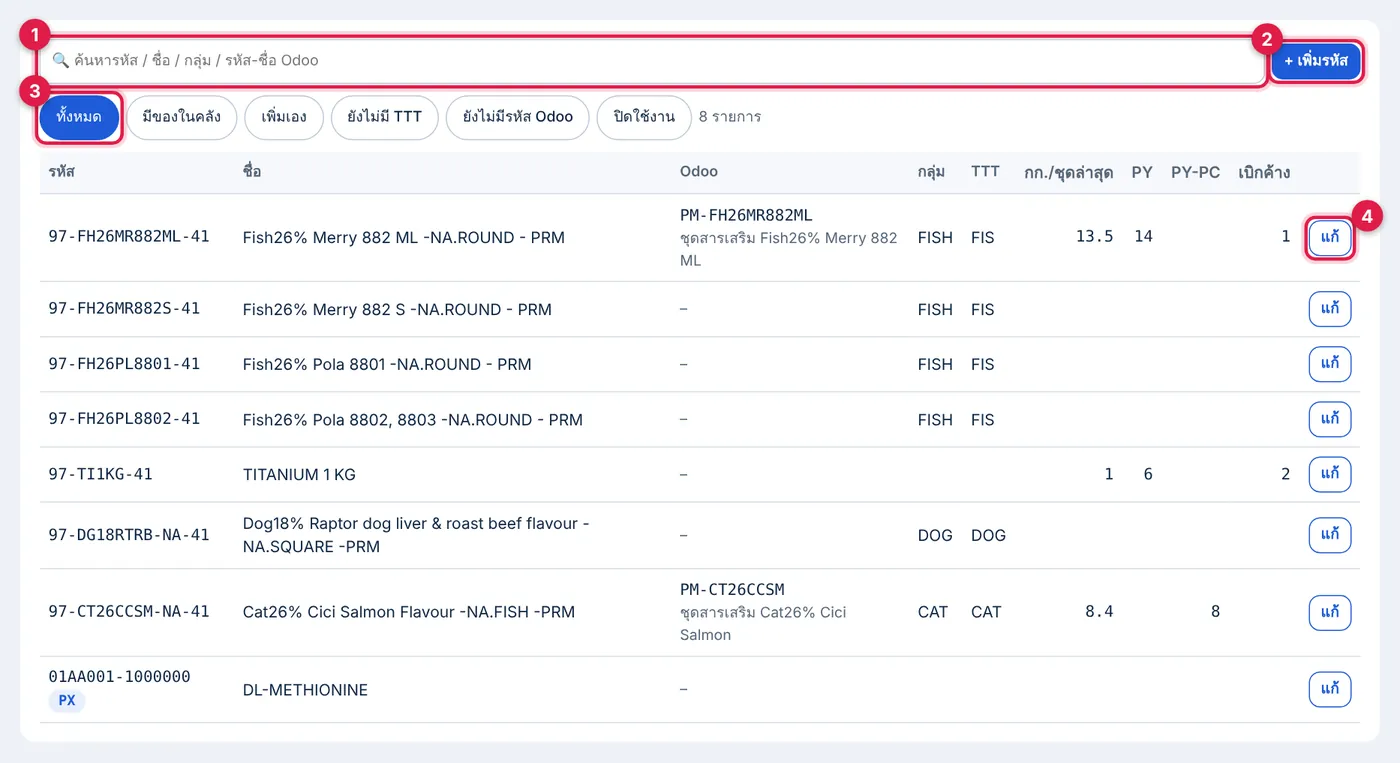
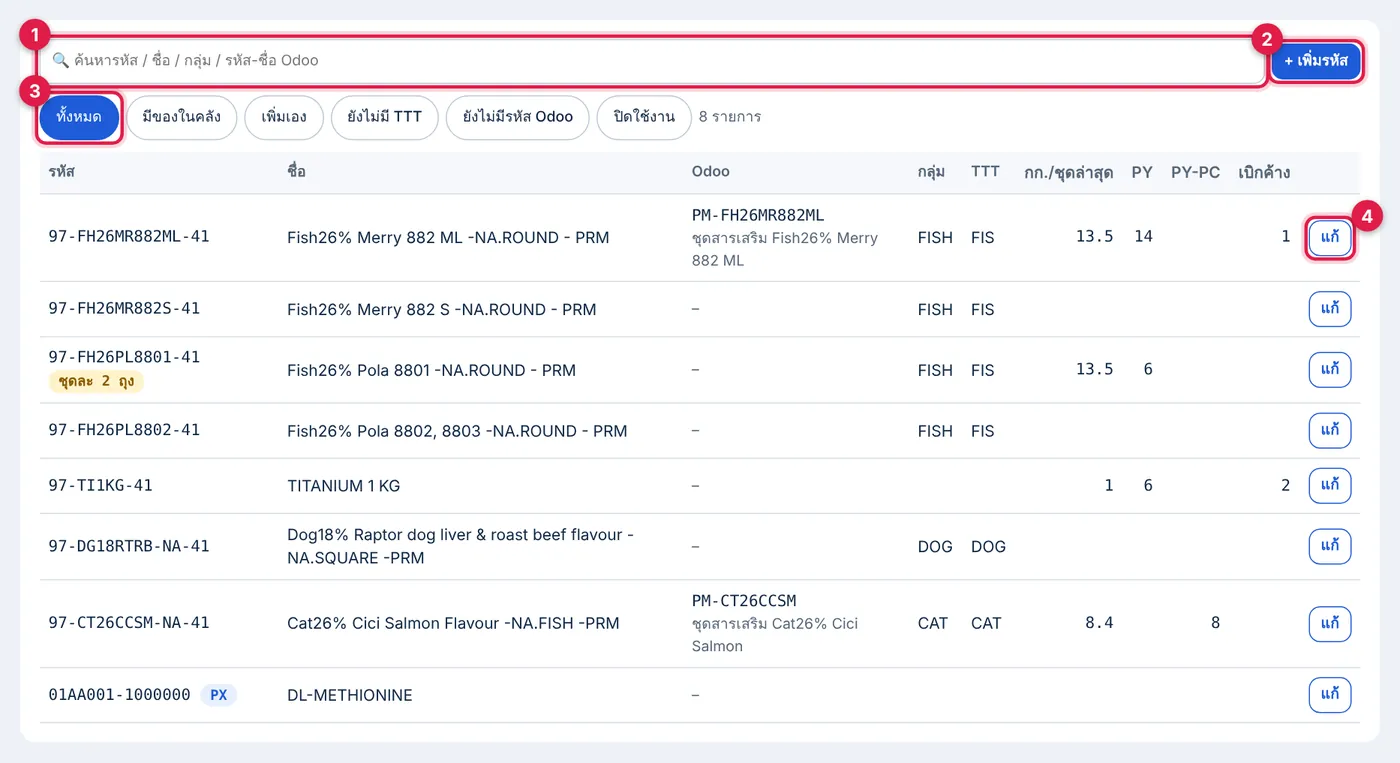
PY: 1 ชุดแยกหลายถุง (Lot เดียว เลข Lot เดิม) · ป้าย -04 ถุงละใบ · เบิก/เทต้องสแกนครบทุกถุง
- Master/รับเข้า: ถุงต่อชุด 1–4 + น้ำหนักแต่ละถุง (กก./ชุด = ผลรวม)
- ป้าย -04 ถุงละใบ: QR BFLPY|Lot|ชุดที่|ถุง · ใต้ QR "ชุดที่ · ถุง 1/2" · น้ำหนักตามถุง · ป้าย -05 บอก "ชุดละ N ถุง"
- ใบสั่งเบิก/หน้าเทยา: แท็ก "ชุดละ N ถุง" + กล่องเตือนชุดที่ถุงยังไม่ครบ (ยังไม่สแกนเบิก / รอเทถุง)
- ข้อความสแกนบอกถุง 1/2 และถุงที่ยังขาด · รายการเบิก/เทแสดงสถานะรายถุง · แก้ Lot แก้น้ำหนักรายถุงได้
- F-WI04 นับเป็นชุด (ไม่นับซ้ำรายถุง) · Excel ยอด PY มีคอลัมน์ถุง/ชุด · คู่มือเพิ่มหัวข้อชุดแยกถุง

Claude-Session: https://claude.ai/code/session_01XaKbuiUMyHGcBpRma49C6D

diff --git a/rawmat-stock/py-manual/index.html b/rawmat-stock/py-manual/index.html
@@ -89,7 +89,7 @@
     <div class="pm-kick">BFL Raw Material System · โมดูล PY</div>
     <h1>คู่มือการใช้งาน PY ชุดสารเสริม</h1>
     <p>ตั้งแต่รับชุดสารเสริมเข้าคลัง PY → ออกใบสั่งเบิก → เบิก / เท / คืน → รับคืน → พิมพ์ฟอร์ม<br>ทุกขั้นตอนมีภาพหน้าจอจริงและข้อมูลตัวอย่าง (ตัวเลขในวงกลมแดงบนภาพ = ลำดับขั้นตอน · แตะภาพเพื่อดูขนาดเต็ม)</p>
-    <div class="pm-meta">ฉบับ 21 พ.ย. 2026 (ปรับปรุง: คลัง PY-PC · เอกสาร BFL-PC · รหัส Odoo) · Phase 1 · ใช้กับ F-WI01-PSS01-04/-05 Rev.01 · F-WI07-PRD04-01 Rev.03 · F-WI04-PSS01-01 Rev.00</div>
+    <div class="pm-meta">ฉบับ 21 พ.ย. 2026 (ปรับปรุง: คลัง PY-PC · เอกสาร BFL-PC · รหัส Odoo · ชุดแยกหลายถุง) · Phase 1 · ใช้กับ F-WI01-PSS01-04/-05 Rev.01 · F-WI07-PRD04-01 Rev.03 · F-WI04-PSS01-01 Rev.00</div>
   </div>
 </header>
 
@@ -122,6 +122,7 @@
     <div><b>ป้าย QR 1 ใบต่อชุด</b><span>ป้าย -04 ติดทุกชุด · ป้าย -05 ติดถุงรวม</span></div>
     <div><b>คืนเป็นชุดเต็ม</b><span>ไม่คืนเศษ · คืนได้เฉพาะชุดที่เบิกแล้วยังไม่เท</span></div>
     <div><b>เทเข้า Mixer โดยตรง</b><span>ไม่ผ่านถัง batching · ถุงมีกี่รหัสต้องเทครบ</span></div>
+    <div><b>1 ชุดแยกหลายถุงได้</b><span>บางสูตรผสมรอไม่ได้ → แยก 2 ถุง (รหัส -41 เดียว Lot เดียว) · ป้ายถุงละใบ · เบิก/เทต้องสแกนครบทุกถุง</span></div>
   </div>
   <h3>คลัง 2 คลัง และเอกสาร 2 แบบ</h3>
   <div class="pm-grid2">
@@ -204,12 +205,13 @@
       <li>กด <b>+ เพิ่มรหัส</b></li>
       <li>① เลือกประเภท <b>ชุดสารเสริม (-41)</b> หรือ <b>พรีมิกซ์ (รหัส PX)</b> สำหรับกรณีถุงที่ 2 เป็นพรีมิกซ์</li>
       <li>② ใส่รหัส ③ ชื่อ · กลุ่ม · ④ TTT (ประเภทอาหาร 3 ตัว)</li>
+      <li><b>ถุงต่อชุด</b> — 1 ถุง (ปกติ) หรือ 2–4 ถุง สำหรับสูตรที่ต้องแยกถุงเท (ค่าเริ่มต้นตอนรับเข้า)</li>
       <li>⑤ <b>รหัส Odoo</b> ⑥ <b>ชื่อ Odoo</b> (ไม่บังคับ · แก้เพิ่มภายหลังได้ด้วยปุ่ม แก้)</li>
       <li>⑦ กด <b>บันทึก</b> → รหัสใช้ได้ทันทีในหน้ารับเข้าและใบสั่งเบิก</li>
     </ol>
     <div class="pm-ex"><b>ข้อมูลตัวอย่าง</b><dl><dt>ประเภท</dt><dd>ชุดสารเสริม (-41)</dd><dt>รหัส</dt><dd class="pm-mono">97-CT30TNMK-41</dd><dt>ชื่อ</dt><dd>Cat30% Tuna Milk -PRM</dd><dt>กลุ่ม / TTT</dt><dd>CAT / CAT</dd><dt>รหัส Odoo</dt><dd class="pm-mono">PM-CT30TNMK</dd><dt>ชื่อ Odoo</dt><dd>ชุดสารเสริม Cat30% Tuna Milk</dd></dl></div>
   </div>
-  <figure class="pm-fig"><a href="img/s11_master_new.webp" target="_blank" rel="noopener"><img src="img/s11_master_new.webp" width="1400" height="443" style="max-width:min(100%,933px)" loading="lazy" alt="ฟอร์มเพิ่มรหัส"></a><figcaption>ฟอร์มเพิ่มรหัส</figcaption></figure>
+  <figure class="pm-fig"><a href="img/s11_master_new.webp" target="_blank" rel="noopener"><img src="img/s11_master_new.webp" width="1400" height="500" style="max-width:min(100%,933px)" loading="lazy" alt="ฟอร์มเพิ่มรหัส"></a><figcaption>ฟอร์มเพิ่มรหัส</figcaption></figure>
   <div class="pm-tip">รหัส Odoo แสดงในหน้า ยอด PY, รายการเลือกรหัส (พิมพ์รหัส Odoo ค้นหาได้), ไฟล์ Excel / PDF ยอดคงคลัง และใบจ่ายออก PY-PC</div>
   <div class="pm-note">ไม่ลบรหัส — ถ้าเลิกใช้ให้กด แก้ → เอาเครื่องหมาย ✓ ใช้งาน ออก (รหัสจะไม่ขึ้นในรายการเลือก)</div>
 </section>
@@ -232,7 +234,7 @@
   </div>
 
   <h3>ขั้นที่ 2 · กรอกข้อมูลแล้วกดรับเข้า</h3>
-  <figure class="pm-fig"><a href="img/s21_recv_form.webp" target="_blank" rel="noopener"><img src="img/s21_recv_form.webp" width="1400" height="923" style="max-width:min(100%,933px)" loading="lazy" alt="กรอกครบแล้ว — ปุ่มรับเข้าจะกดได้เมื่อข้อมูลครบและถูกต้อง (ตัวเลขตรงกับรายการด้านล่าง)"></a><figcaption>กรอกครบแล้ว — ปุ่มรับเข้าจะกดได้เมื่อข้อมูลครบและถูกต้อง (ตัวเลขตรงกับรายการด้านล่าง)</figcaption></figure>
+  <figure class="pm-fig"><a href="img/s21_recv_form.webp" target="_blank" rel="noopener"><img src="img/s21_recv_form.webp" width="1400" height="1008" style="max-width:min(100%,933px)" loading="lazy" alt="กรอกครบแล้ว — ปุ่มรับเข้าจะกดได้เมื่อข้อมูลครบและถูกต้อง (ตัวเลขตรงกับรายการด้านล่าง)"></a><figcaption>กรอกครบแล้ว — ปุ่มรับเข้าจะกดได้เมื่อข้อมูลครบและถูกต้อง (ตัวเลขตรงกับรายการด้านล่าง)</figcaption></figure>
   <ol class="pm-ol pm-ol-num">
     <li><b>คลังที่รับเข้า</b> — <b>PY</b> (ใช้ผลิต BFL) หรือ <b>PY-PC</b> (เตรียมส่ง BFL-PC)</li>
     <li><b>เอกสารระบบ</b> — <b>BFL</b> หรือ <b>BFL-PC</b> = ชื่อบริษัทบนหัวป้าย (เลือกคลัง PY-PC แล้วระบบเปลี่ยนเป็น BFL-PC ให้เอง เปลี่ยนกลับได้)</li>
@@ -247,6 +249,19 @@
   </ol>
   <div class="pm-grid2"><figure class="pm-fig"><a href="img/s37_recv_pc.webp" target="_blank" rel="noopener"><img src="img/s37_recv_pc.webp" width="1400" height="293" style="max-width:min(100%,933px)" loading="lazy" alt="เลือกคลัง PY-PC → เอกสารเปลี่ยนเป็น BFL-PC ให้อัตโนมัติ"></a><figcaption>เลือกคลัง PY-PC → เอกสารเปลี่ยนเป็น BFL-PC ให้อัตโนมัติ</figcaption></figure><figure class="pm-fig"><a href="img/s48_label_pc.webp" target="_blank" rel="noopener"><img src="img/s48_label_pc.webp" width="534" height="341" style="max-width:min(100%,356px)" loading="lazy" alt="ป้าย -04 เอกสาร BFL-PC: หัวป้าย &quot;บริษัท บลูฟาโล่ เพ็ทแคร์ จำกัด&quot;"></a><figcaption>ป้าย -04 เอกสาร BFL-PC: หัวป้าย "บริษัท บลูฟาโล่ เพ็ทแคร์ จำกัด"</figcaption></figure></div>
   <figure class="pm-fig"><a href="img/s23_recv_badlot.webp" target="_blank" rel="noopener"><img src="img/s23_recv_badlot.webp" width="810" height="186" style="max-width:min(100%,540px)" loading="lazy" alt="ตัวอย่าง Lot ผิดรูปแบบ — ระบบแจ้งทันทีและไม่ให้บันทึก"></a><figcaption>ตัวอย่าง Lot ผิดรูปแบบ — ระบบแจ้งทันทีและไม่ให้บันทึก</figcaption></figure>
+
+  <h3>กรณี 1 ชุดแยก 2 ถุง (บางตัวผสมรอไม่ได้)</h3>
+  <div class="pm-step2">
+    <div><ol class="pm-ol pm-ol-num">
+      <li><b>จำนวนถุงต่อชุด</b> — เลือก <b>2 ถุง</b> (ระบบเลือกให้ตาม Master)</li>
+      <li><b>น้ำหนักถุง 1</b> เช่น 10.00 กก.</li>
+      <li><b>น้ำหนักถุง 2</b> เช่น 3.50 กก. → น้ำหนักต่อชุด = 13.50 กก. อัตโนมัติ</li>
+    </ol>
+    <div class="pm-ex"><b>ตัวอย่าง</b><dl><dt>รหัส</dt><dd class="pm-mono">97-FH26PL8801-41 (รหัสเดียว)</dd><dt>Lot</dt><dd class="pm-mono">PRE-FIS261121-03-MI (เลขเดียว ไม่แก้เลข)</dd><dt>จำนวน</dt><dd>8 ชุด × 2 ถุง = ป้าย 16 ใบ</dd></dl></div></div>
+    <figure class="pm-fig"><a href="img/s38_recv_2bags.webp" target="_blank" rel="noopener"><img src="img/s38_recv_2bags.webp" width="1400" height="239" style="max-width:min(100%,933px)" loading="lazy" alt="เลือก 2 ถุง แล้วใส่น้ำหนักแต่ละถุง"></a><figcaption>เลือก 2 ถุง แล้วใส่น้ำหนักแต่ละถุง</figcaption></figure>
+  </div>
+  <figure class="pm-fig"><a href="img/s39_label_2bags.webp" target="_blank" rel="noopener"><img src="img/s39_label_2bags.webp" width="1050" height="341" style="max-width:min(100%,700px)" loading="lazy" alt="ป้าย -04 ของชุดที่ 1: ถุง 1/2 (10.00 kg) และ ถุง 2/2 (3.50 kg) — SETCODE และ Lot No. เดียวกัน · QR ไม่ซ้ำกัน"></a><figcaption>ป้าย -04 ของชุดที่ 1: ถุง 1/2 (10.00 kg) และ ถุง 2/2 (3.50 kg) — SETCODE และ Lot No. เดียวกัน · QR ไม่ซ้ำกัน</figcaption></figure>
+  <div class="pm-note">ป้ายยังเป็นฟอร์ม F-WI01-PSS01-04 เดิม · ใต้ QR บอก <b>ชุดที่ · ถุง 1/2</b> · ติดป้ายให้ตรงถุง (ถุง 1 / ถุง 2 ตามน้ำหนัก) · ถ้าใส่ถุงรวม -05 ระบบนับเป็นชุด (ในถุงรวมต้องมีครบทุกถุงของแต่ละชุด)</div>
 
   <h3>ขั้นที่ 3 · พิมพ์ป้าย</h3>
   <figure class="pm-fig"><a href="img/s22_recv_done.webp" target="_blank" rel="noopener"><img src="img/s22_recv_done.webp" width="1400" height="164" style="max-width:min(100%,933px)" loading="lazy" alt="รับเข้าสำเร็จ: ① พิมพ์ป้ายชุด -04 (20 ใบ) ② พิมพ์ป้ายถุง -05 แต่ละถุง"></a><figcaption>รับเข้าสำเร็จ: ① พิมพ์ป้ายชุด -04 (20 ใบ) ② พิมพ์ป้ายถุง -05 แต่ละถุง</figcaption></figure>
@@ -369,6 +384,9 @@
     <li>กด <b>ออกใบสั่งเบิก</b> → ใบขึ้นที่หน้าจอเทยาทันที</li>
   </ol>
 
+  <div class="pm-tip"><b>Control รู้ได้อย่างไรว่าต้องเท 2 ถุง</b> — รหัสที่แยกถุงจะมีป้ายสีเหลือง <span class="pm-tag" style="background:#fff3cd;color:#8a5a00">ชุดละ 2 ถุง</span> ตอนเพิ่มรหัสในใบ และในตารางความคืบหน้า · ใบจะนับว่า "เท" ชุดนั้นเมื่อสแกนเทครบทุกถุงเท่านั้น · ถ้าถุงยังไม่ครบ ใบจะขึ้นกล่องเหลือง "ถุงยังไม่ครบ" บอกว่า Lot ไหน ชุดที่เท่าไร ขาดถุงไหน</div>
+  <figure class="pm-fig"><a href="img/s57_order_wait.webp" target="_blank" rel="noopener"><img src="img/s57_order_wait.webp" width="1400" height="488" style="max-width:min(100%,933px)" loading="lazy" alt="① รหัสที่แยกถุง ② รายการชุดที่ถุงยังไม่ครบ (ยังไม่สแกนเบิก / เทแล้วบางถุง)"></a><figcaption>① รหัสที่แยกถุง ② รายการชุดที่ถุงยังไม่ครบ (ยังไม่สแกนเบิก / เทแล้วบางถุง)</figcaption></figure>
+
   <h3>ติดตามและจัดการใบ</h3>
   <figure class="pm-fig"><a href="img/s51_order_card.webp" target="_blank" rel="noopener"><img src="img/s51_order_card.webp" width="1400" height="315" style="max-width:min(100%,933px)" loading="lazy" alt="การ์ดใบสั่งเบิก: ต้องใช้ / เบิก / เท / ในมือ / ใน PY ต่อรหัส"></a><figcaption>การ์ดใบสั่งเบิก: ต้องใช้ / เบิก / เท / ในมือ / ใน PY ต่อรหัส</figcaption></figure>
   <div class="pm-tw"><table class="pm-t"><thead><tr><th>ปุ่ม</th><th>ใช้เมื่อ</th></tr></thead><tbody>
@@ -443,6 +461,19 @@
     <div class="pm-figs"><figure class="pm-fig pm-fig-phone"><a href="img/s64_return_ok.webp" target="_blank" rel="noopener"><img src="img/s64_return_ok.webp" width="830" height="768" style="max-width:min(100%,415px)" loading="lazy" alt="คืนด้วยป้ายถุง -05 · คืนครบแล้ว ใบจึงหายจากรายการ"></a><figcaption>คืนด้วยป้ายถุง -05 · คืนครบแล้ว ใบจึงหายจากรายการ</figcaption></figure></div>
   </div>
 
+  <h3>ชุดที่แยก 2 ถุง (ป้ายมี "ถุง 1/2", "ถุง 2/2")</h3>
+  <div class="pm-step2 pm-phone">
+    <div>
+      <ol class="pm-ol pm-ol-num">
+        <li><b>เบิก</b> — ถ้าถุงแยกกัน ต้องสแกนป้าย -04 <b>ทั้ง 2 ถุง</b> (สแกนถุงแรกแล้วระบบเตือน "ยังไม่สแกนถุง 2") · ถ้าอยู่ในถุงรวม -05 สแกนป้ายถุงรวมครั้งเดียวได้</li>
+        <li><b>เท</b> — สแกนป้ายของแต่ละถุงตอนเทเข้า Mixer · ถุงแรกระบบให้เลข batch แล้วรอถุงที่เหลือ (กล่องเหลือง) · batch นั้นจะครบเมื่อเทครบทุกถุง</li>
+        <li>สแกนเทถุงที่ยังไม่ได้สแกนเบิก → ระบบไม่ให้เท ให้สลับไปโหมดเบิกก่อน</li>
+        <li><b>คืน</b> — คืนได้เฉพาะชุดที่ยังไม่ได้เทสักถุง และต้องนำคืนให้ครบทุกถุง</li>
+      </ol>
+    </div>
+    <div class="pm-figs"><figure class="pm-fig pm-fig-phone"><a href="img/s67_issue_bag.webp" target="_blank" rel="noopener"><img src="img/s67_issue_bag.webp" width="820" height="444" style="max-width:min(100%,410px)" loading="lazy" alt="เบิกถุง 1/2 — เตือนให้สแกนถุง 2"></a><figcaption>เบิกถุง 1/2 — เตือนให้สแกนถุง 2</figcaption></figure><figure class="pm-fig pm-fig-phone"><a href="img/s66_pour_bag.webp" target="_blank" rel="noopener"><img src="img/s66_pour_bag.webp" width="820" height="990" style="max-width:min(100%,410px)" loading="lazy" alt="① ชุดที่ถุงยังไม่ครบ ② เทถุง 1/2 รอเทถุง 2"></a><figcaption>① ชุดที่ถุงยังไม่ครบ ② เทถุง 1/2 รอเทถุง 2</figcaption></figure></div>
+  </div>
+
   <h3>D. สแกนผิด ต้องทำอย่างไร</h3>
   <p>แจ้ง <b>Control</b> — Control เปิดหน้า เบิก/เท/คืน → หัวข้อ <b>สแกนล่าสุด (เครื่องนี้)</b> หรือ ใบสั่งเบิก → รายการเบิก/เท แล้วกด ยกเลิก พร้อมใส่เหตุผล (เทยายกเลิกเองไม่ได้)</p>
   <figure class="pm-fig"><a href="img/s65_hist_ctl.webp" target="_blank" rel="noopener"><img src="img/s65_hist_ctl.webp" width="1400" height="169" style="max-width:min(100%,933px)" loading="lazy" alt="Control ยกเลิกรายการ: ① เหตุผล ② ยืนยันยกเลิก"></a><figcaption>Control ยกเลิกรายการ: ① เหตุผล ② ยืนยันยกเลิก</figcaption></figure>
@@ -483,6 +514,9 @@
       <tr><td>ชุดนี้อยู่คลัง PY-PC — เบิกเข้าการผลิตไม่ได้</td><td>สแกนเบิกชุดของคลัง PY-PC</td><td>ใช้ชุดคลัง PY · ถ้ารับเข้าผิดคลัง ให้พรีมิกซ์ แก้ คลัง ของ Lot</td></tr>
       <tr><td>… จ่ายออกไป BFL-PC ได้เฉพาะคลัง PY-PC</td><td>สแกนชุด/ถุงคลัง PY ในหน้าจ่ายออก</td><td>ตรวจป้าย หรือ แก้ คลัง ของ Lot (ถ้ายังไม่มีการเบิก)</td></tr>
       <tr><td>ถุงรวมต้องเป็นคลังเดียวกัน / เอกสารเดียวกัน</td><td>จัดถุงรวมจาก Lot ต่างคลังหรือต่างเอกสาร</td><td>แยกถุงตามคลัง/เอกสาร</td></tr>
+      <tr><td>ชุดนี้มี 2 ถุง — สแกนป้ายของแต่ละถุง</td><td>สแกนป้ายเก่าที่ไม่ระบุถุง</td><td>พิมพ์ป้าย -04 ใหม่ (ระบบพิมพ์ถุงละใบ)</td></tr>
+      <tr><td>ถุงที่ 2 ยังไม่ได้สแกนเบิก</td><td>สแกนเทถุงที่ยังไม่ได้สแกนเบิก</td><td>สลับไปโหมดเบิก สแกนถุงนั้น แล้วค่อยสแกนเท</td></tr>
+      <tr><td>ชุดนี้เทไปแล้วบางถุง — คืนไม่ได้</td><td>เทถุงแรกไปแล้ว</td><td>เทถุงที่เหลือให้ครบ หรือให้ Control ยกเลิกการเทก่อน</td></tr>
       <tr><td>อ่านป้ายไม่ได้</td><td>ไม่ใช่ป้าย -04/-05 หรือ QR เสีย</td><td>พิมพ์ป้ายใหม่ที่หน้า ยอด PY</td></tr>
       <tr><td>Lot No. ต้องเป็นรูปแบบ PRE-TTTYYMMDD-NN-MI</td><td>พิมพ์ Lot ผิดรูปแบบ</td><td>เช่น <span class="pm-mono">PRE-FIS261121-01-MI</span></td></tr>
       <tr><td>มี Lot … อยู่แล้ว</td><td>Lot ซ้ำ</td><td>เปลี่ยนเลขลำดับ NN</td></tr>
@@ -495,6 +529,7 @@
   <details class="pm-q"><summary>เบิกด้วยป้ายถุง แต่ถุงมีมากกว่าที่ต้องใช้?</summary><p>ระบบเบิกเฉพาะจำนวนที่ใบต้องใช้ ส่วนที่เหลือยังอยู่ PY ในถุงเดิม (ข้อความ "ข้าม … ชุด")</p></details>
   <details class="pm-q"><summary>ทำไมหา Lot การผลิตไม่เจอตอนออกใบ?</summary><p>แสดงเฉพาะ Lot 30 วันล่าสุดที่ยังไม่ยกเลิกและไม่ Finished · ลองพิมพ์เลข Lot หรือสูตรในช่องค้นหาแล้วกด ค้นหา</p></details>
   <details class="pm-q"><summary>ชุดที่รับคืนกลับไปอยู่ในถุงเดิมไหม?</summary><p>ไม่ — ชุดที่รับคืนออกจากถุงรวม และวางที่จุดรับคืน (หรือที่เลือก) ครั้งต่อไปให้สแกนป้าย -04 หรือจัดถุงรวมใหม่</p></details>
+  <details class="pm-q"><summary>1 ชุดมี 2 ถุงที่ต้องเท ทำป้ายอย่างไร?</summary><p>ตั้ง "ถุงต่อชุด = 2" ที่ Master หรือตอนรับเข้า แล้วใส่น้ำหนักแต่ละถุง · รหัส -41 และเลข Lot ไม่เปลี่ยน · ระบบพิมพ์ป้าย -04 ถุงละใบ (ใต้ QR บอก ถุง 1/2, 2/2) · ใบสั่งเบิกแสดง "ชุดละ 2 ถุง" ให้ Control เห็น · เทยาต้องสแกนครบทั้ง 2 ถุง batch จึงครบ</p></details>
   <details class="pm-q"><summary>PY กับ PY-PC ต่างกันอย่างไร?</summary><p>PY = ใช้ผลิตของ BFL (ใบสั่งเบิก/เท) · PY-PC = เตรียมไว้ส่ง BFL-PC ออกได้ทางเมนู จ่ายออก PY-PC เท่านั้น · ยอดแยกกัน (หน้า ยอด PY มีปุ่มเลือกคลัง) · ใช้ช่องจัดเก็บ Zone A/B ร่วมกัน</p></details>
   <details class="pm-q"><summary>เอกสาร BFL-PC เปลี่ยนอะไร?</summary><p>เปลี่ยนเฉพาะชื่อบริษัทบนหัวป้าย -04 / -05 เป็น "บริษัท บลูฟาโล่ เพ็ทแคร์ จำกัด" · รหัสฟอร์ม/Rev และช่องเหมือนเดิม · F-WI07 / F-WI04 ของฝ่ายผลิตยังเป็น BFL</p></details>
   <details class="pm-q"><summary>บันทึกย้อนหลังได้ไหม?</summary><p>การยกเลิก/แก้ไขรายการของวันก่อน (รอบวันเริ่ม 08:00) ต้องให้ admin ทำ</p></details>
